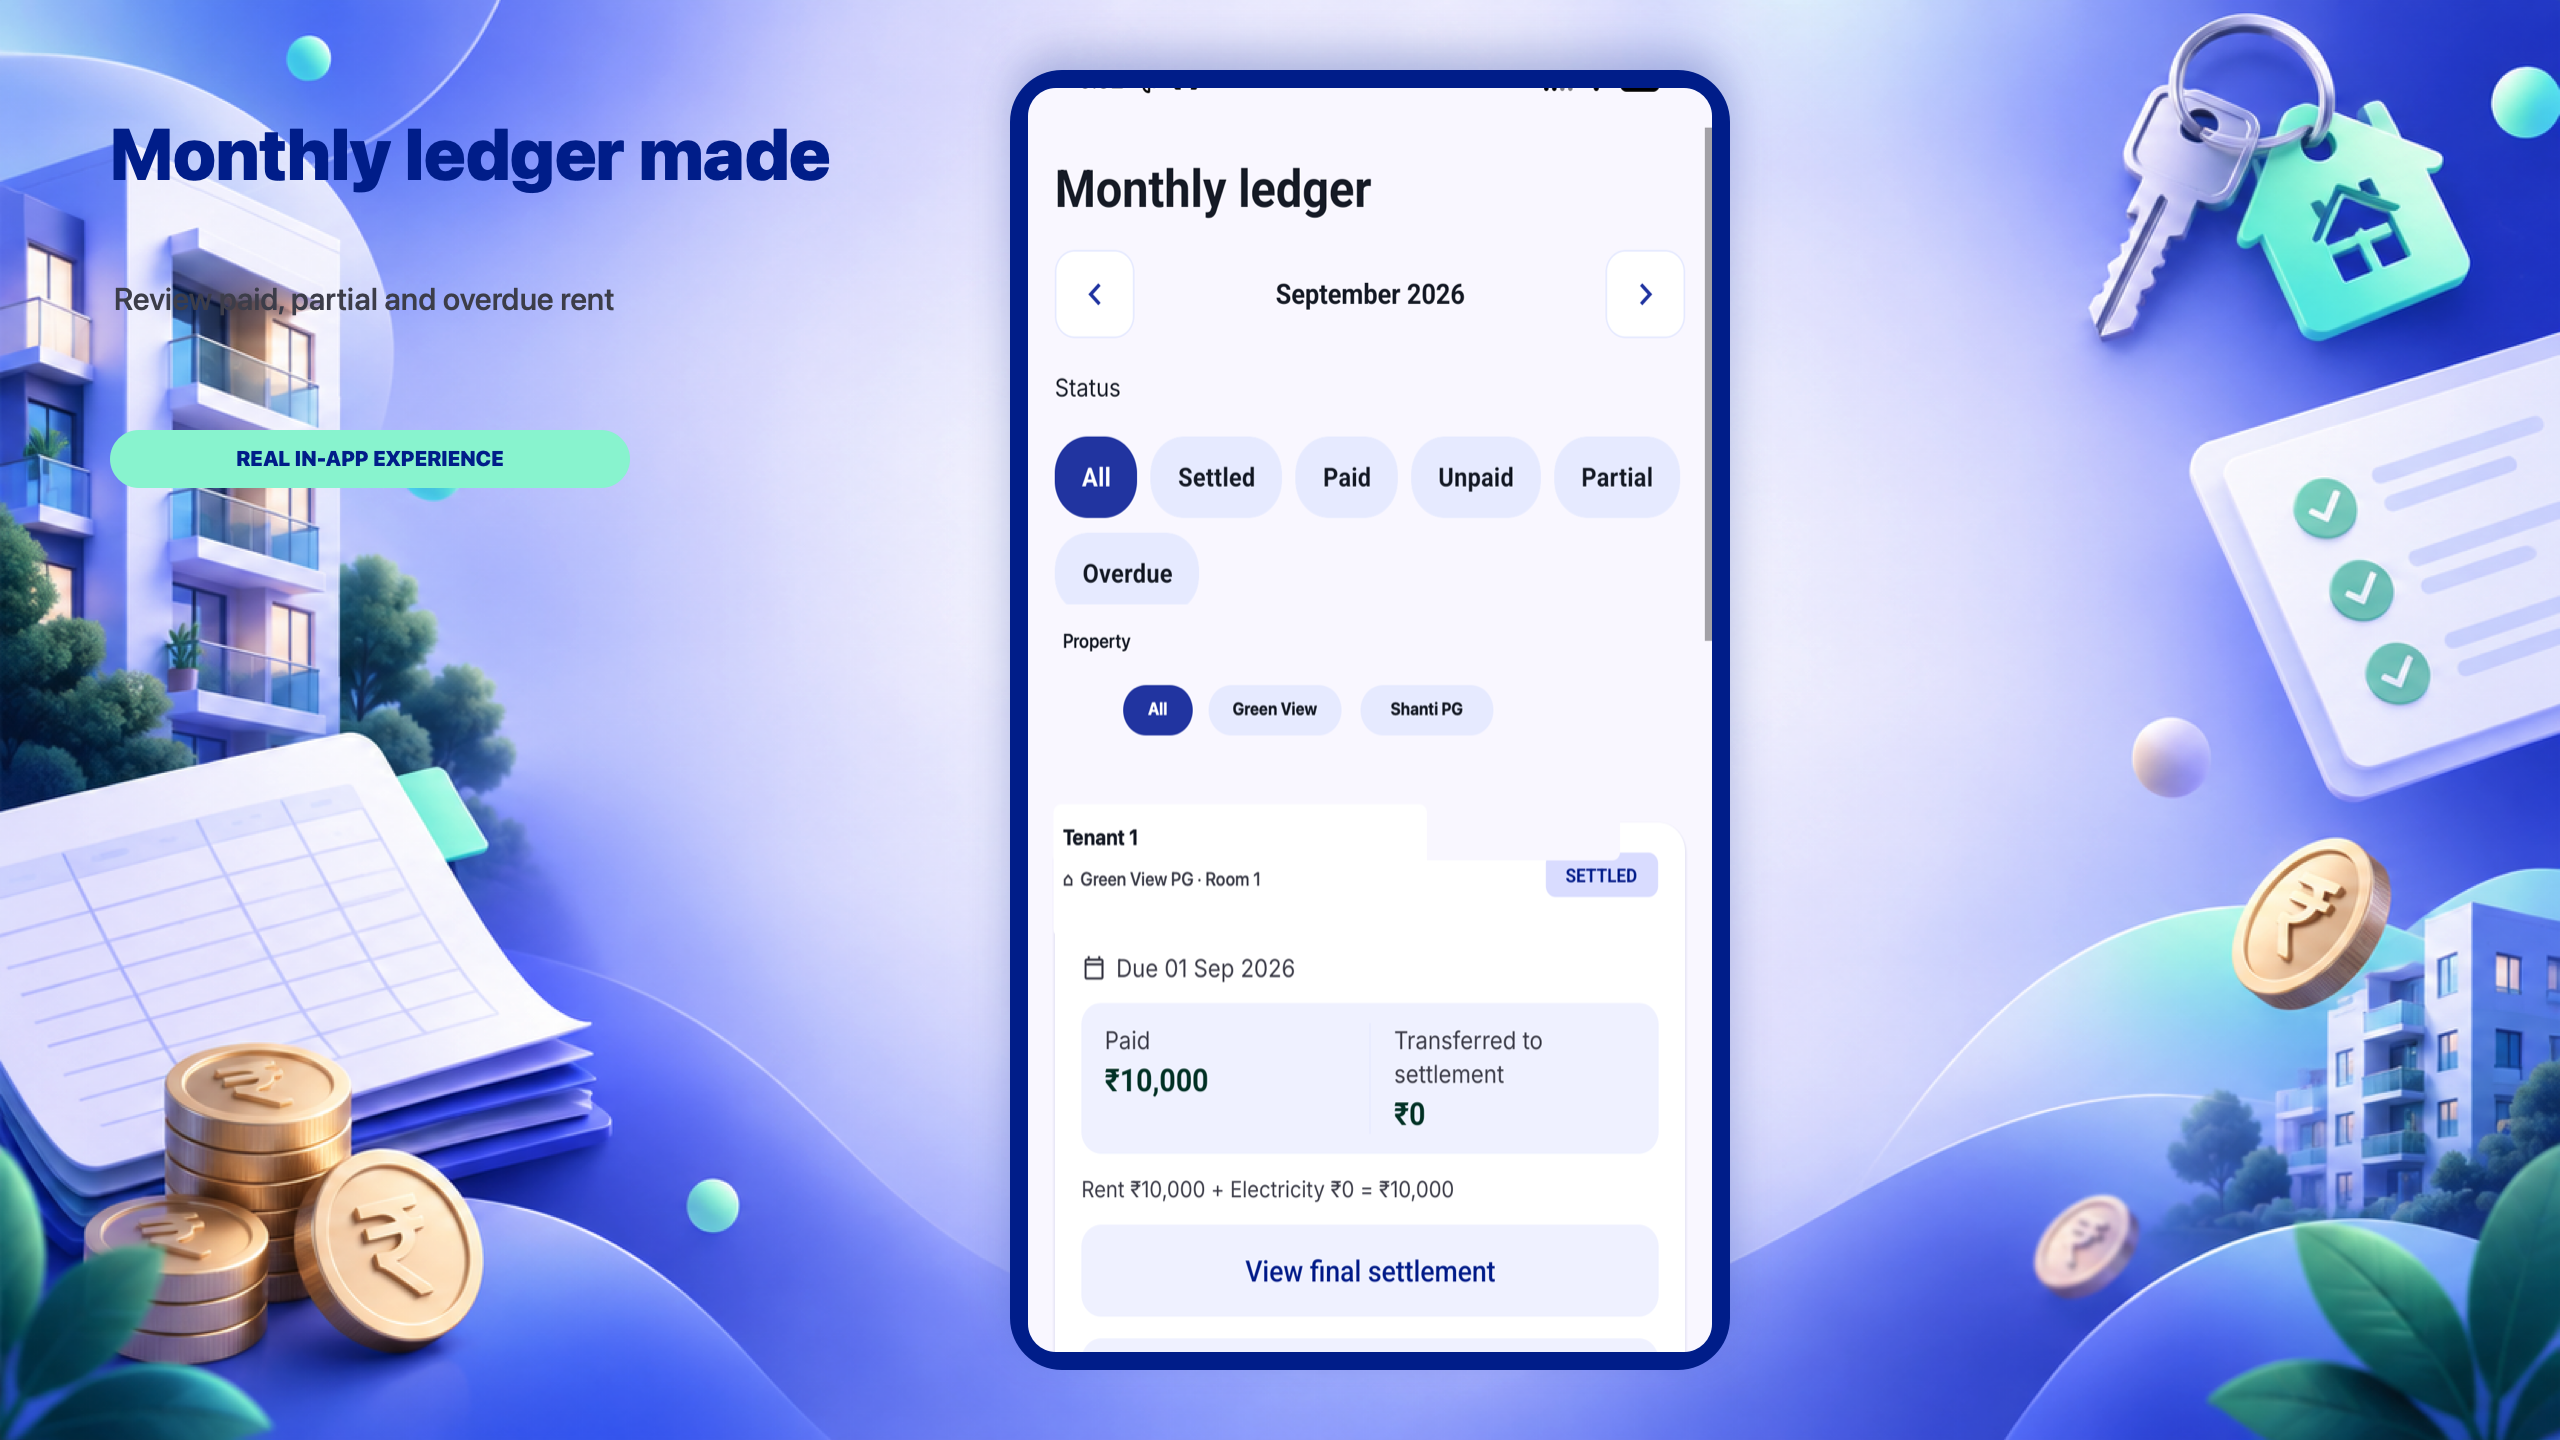
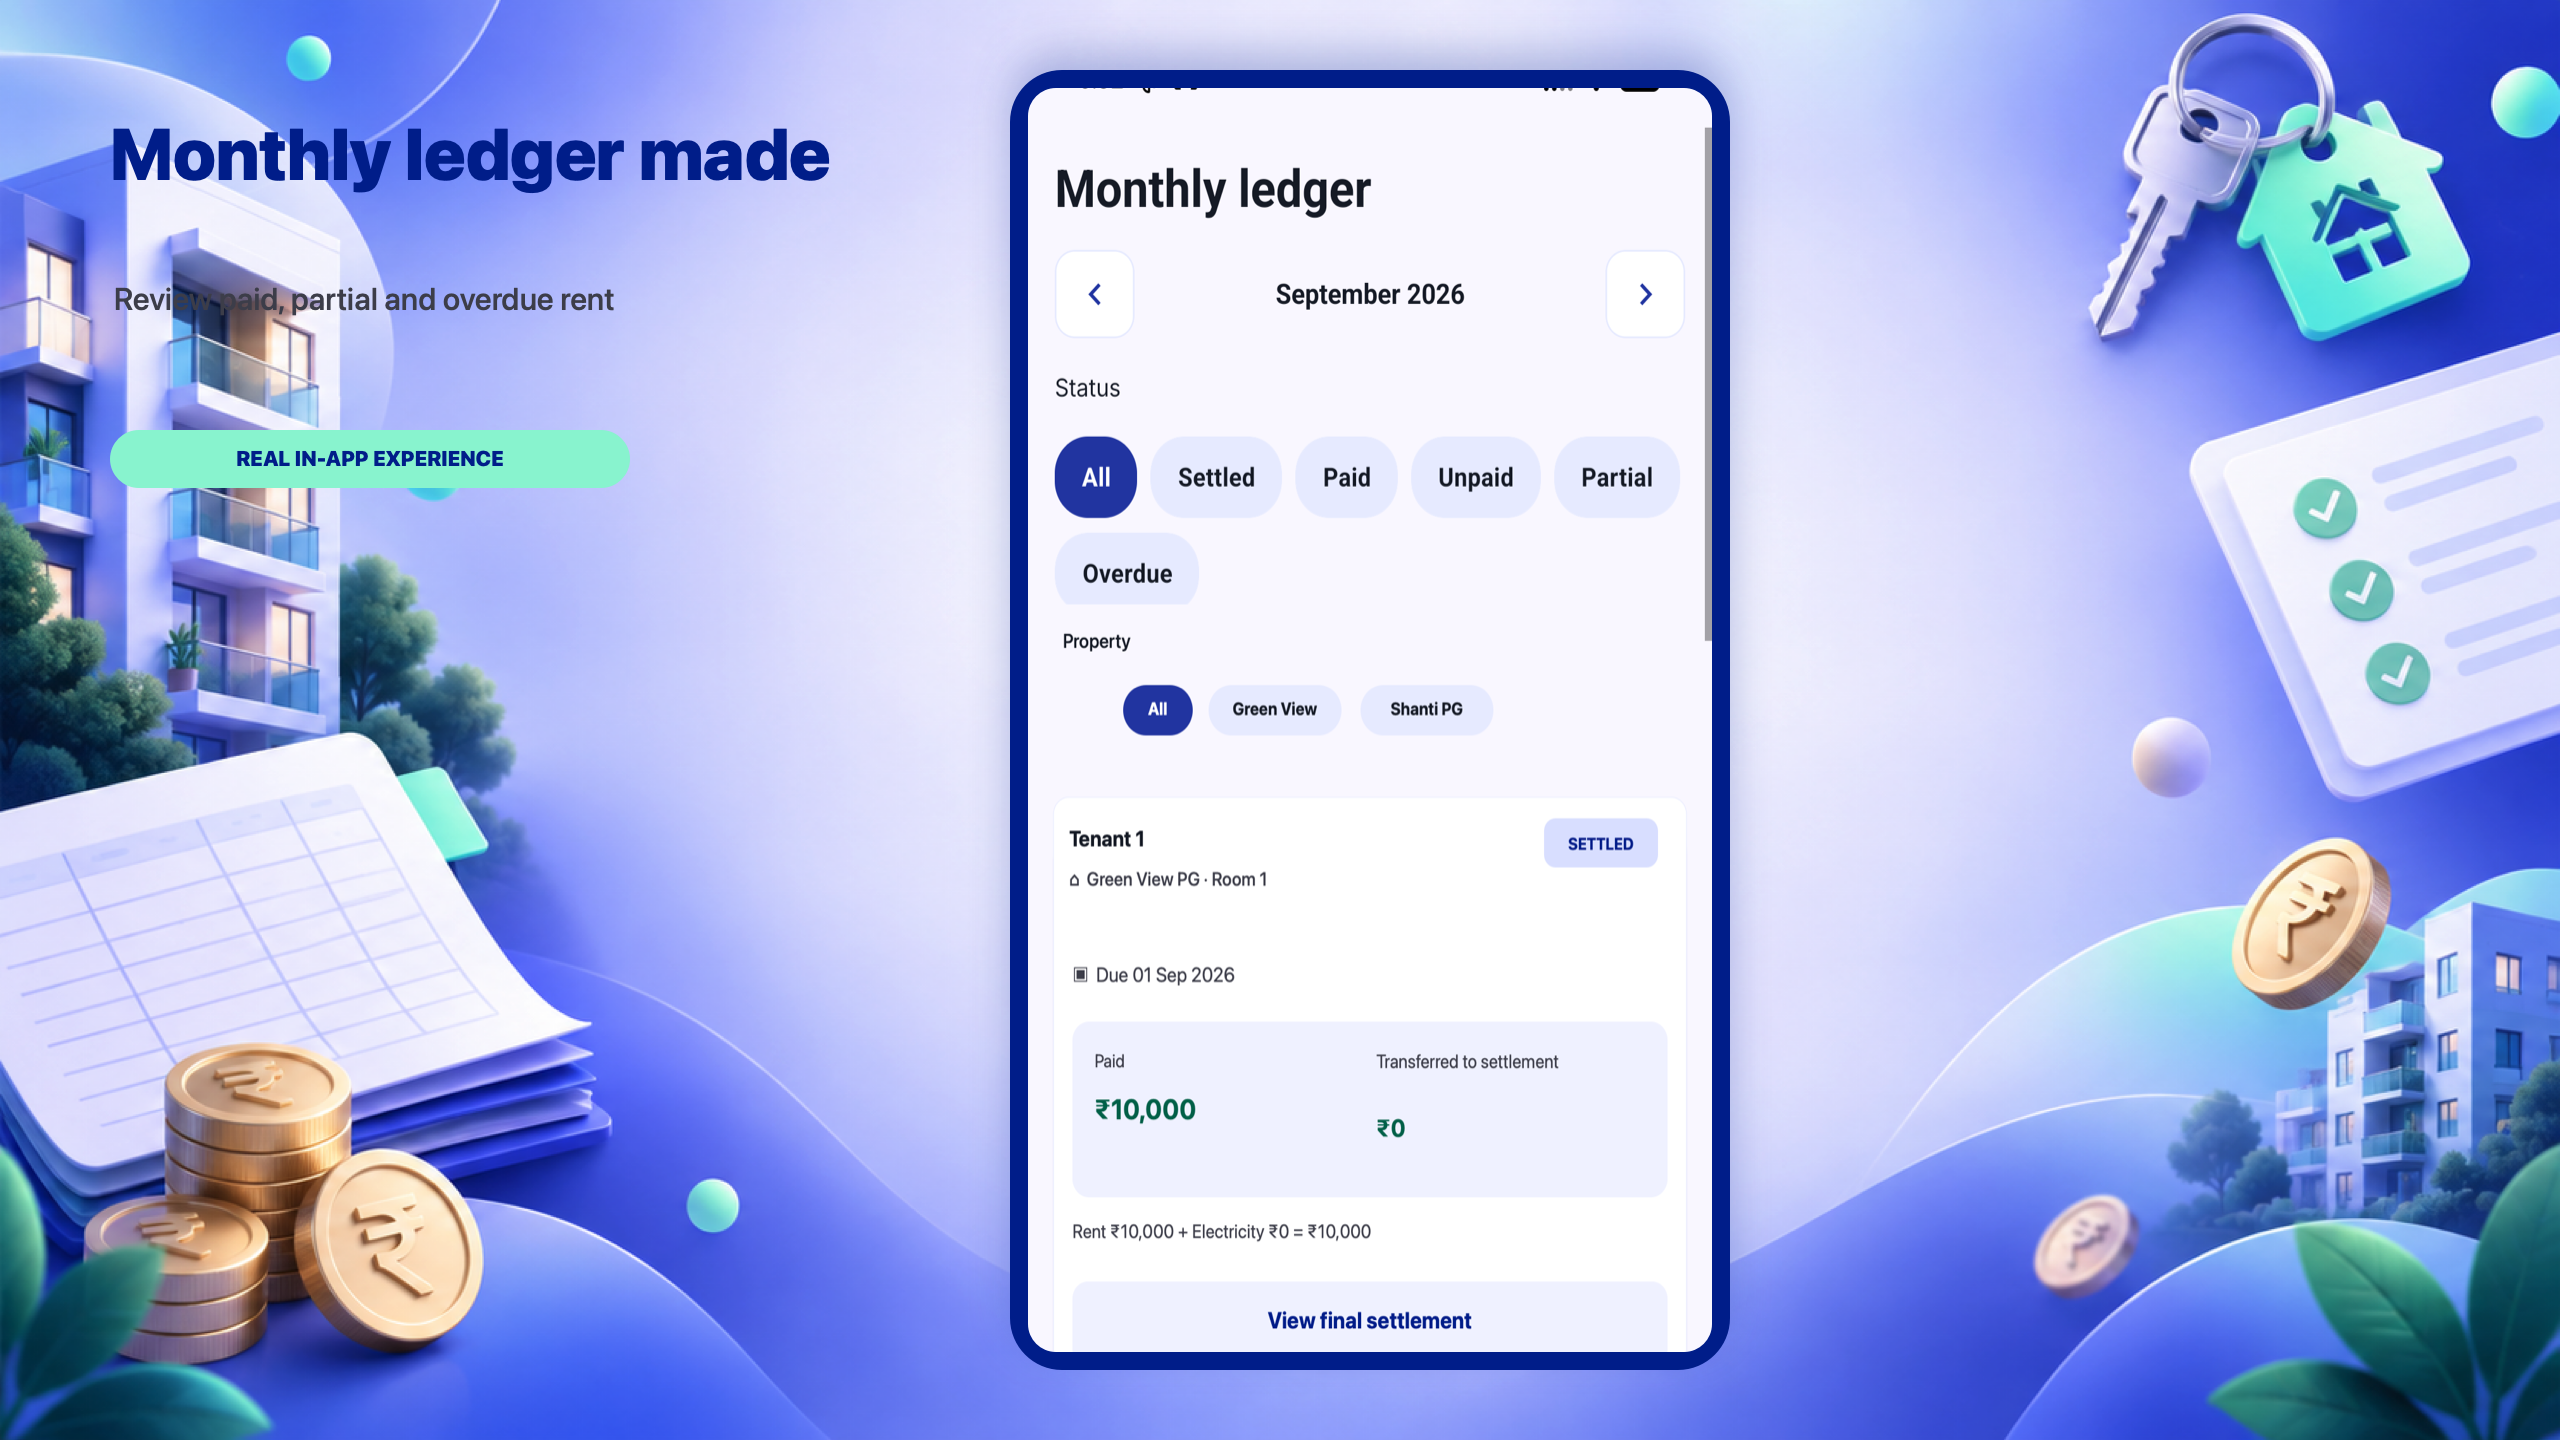
added new img for phone

diff --git a/play-store-assets/multi-device/render_multi_device.swift b/play-store-assets/multi-device/render_multi_device.swift
@@ -72,8 +72,8 @@ func sanitized(_ original: NSImage, index: Int) -> NSImage {
             rounded(NSRect(x: 80, y: 650, width: 520, height: 92), radius: 8, fill: color("233DB6"))
             text("Hello, Landlord 👋", rect: NSRect(x: 92, y: 659, width: 500, height: 70),
                  size: 46, weight: .bold, color: .white)
-            rounded(NSRect(x: 820, y: 565, width: 190, height: 52), radius: 8, fill: color("1635B4"))
-            text("Up to date", rect: NSRect(x: 830, y: 577, width: 170, height: 30),
+            rounded(NSRect(x: 790, y: 540, width: 240, height: 90), radius: 12, fill: color("1635B4"))
+            text("Up to date", rect: NSRect(x: 810, y: 570, width: 200, height: 32),
                  size: 22, weight: .semibold, color: mint, alignment: .center)
 
             rounded(NSRect(x: 30, y: 1080, width: 1020, height: 590), radius: 28, fill: offWhite)
@@ -91,12 +91,17 @@ func sanitized(_ original: NSImage, index: Int) -> NSImage {
             }
         }
         if index == 2 {
-            rounded(NSRect(x: 630, y: 1690, width: 390, height: 250), radius: 22, fill: color("F1F3FF"))
-            text("Contact saved", rect: NSRect(x: 650, y: 1792, width: 350, height: 48),
-                 size: 28, weight: .semibold, color: primary, alignment: .center)
-            rounded(NSRect(x: 245, y: 1620, width: 430, height: 76), radius: 8, fill: .white)
-            text("Green View PG · Room 2", rect: NSRect(x: 260, y: 1638, width: 400, height: 42),
-                 size: 27, weight: .medium, color: muted)
+            rounded(NSRect(x: 40, y: 1580, width: 1000, height: 420), radius: 28, fill: .white, stroke: border)
+            rounded(NSRect(x: 78, y: 1630, width: 112, height: 112), radius: 56, fill: color("E4E8FF"))
+            text("T1", rect: NSRect(x: 78, y: 1662, width: 112, height: 48), size: 38, weight: .bold, color: primary, alignment: .center)
+            text("Tenant 1", rect: NSRect(x: 225, y: 1618, width: 500, height: 52), size: 36, weight: .bold)
+            text("Green View PG · Room 2", rect: NSRect(x: 225, y: 1680, width: 500, height: 44), size: 27, weight: .medium, color: muted)
+            rounded(NSRect(x: 830, y: 1625, width: 150, height: 70), radius: 20, fill: color("D8F9EE"))
+            text("PAID", rect: NSRect(x: 830, y: 1646, width: 150, height: 34), size: 25, weight: .bold, color: color("006B52"), alignment: .center)
+            text("Monthly rent", rect: NSRect(x: 78, y: 1780, width: 300, height: 40), size: 26, color: muted)
+            text("₹25,000 / month", rect: NSRect(x: 78, y: 1834, width: 420, height: 54), size: 37, weight: .bold)
+            rounded(NSRect(x: 650, y: 1780, width: 330, height: 92), radius: 24, fill: color("F1F3FF"))
+            text("Contact saved", rect: NSRect(x: 650, y: 1807, width: 330, height: 42), size: 27, weight: .semibold, color: primary, alignment: .center)
         }
         if index == 3 {
             rounded(NSRect(x: 35, y: 815, width: 900, height: 365), radius: 12, fill: offWhite)
@@ -110,27 +115,48 @@ func sanitized(_ original: NSImage, index: Int) -> NSImage {
                 text(filter.0, rect: NSRect(x: filter.3, y: 949, width: filter.0 == "All" ? 110 : 210, height: 36),
                      size: 25, weight: .bold, color: filter.2, alignment: .center)
             }
-            rounded(NSRect(x: 40, y: 1100, width: 590, height: 190), radius: 12, fill: .white)
-            text("Tenant 1", rect: NSRect(x: 55, y: 1128, width: 540, height: 44),
-                 size: 31, weight: .bold, color: ink)
-            text("⌂  Green View PG · Room 1", rect: NSRect(x: 55, y: 1190, width: 540, height: 44),
-                 size: 27, weight: .medium, color: muted)
+            rounded(NSRect(x: 40, y: 1090, width: 1000, height: 880), radius: 24, fill: .white, stroke: border)
+            text("Tenant 1", rect: NSRect(x: 65, y: 1130, width: 570, height: 46), size: 31, weight: .bold, color: ink)
+            text("⌂  Green View PG · Room 1", rect: NSRect(x: 65, y: 1190, width: 590, height: 44), size: 27, weight: .medium, color: muted)
+            rounded(NSRect(x: 815, y: 1120, width: 180, height: 70), radius: 18, fill: color("DDE2FF"))
+            text("SETTLED", rect: NSRect(x: 815, y: 1142, width: 180, height: 34), size: 24, weight: .bold, color: primaryDark, alignment: .center)
+            text("▣  Due 01 Sep 2026", rect: NSRect(x: 70, y: 1325, width: 600, height: 50), size: 29, color: muted)
+            rounded(NSRect(x: 70, y: 1410, width: 940, height: 250), radius: 26, fill: color("F1F3FF"))
+            text("Paid", rect: NSRect(x: 105, y: 1450, width: 350, height: 38), size: 26, color: muted)
+            text("₹10,000", rect: NSRect(x: 105, y: 1510, width: 350, height: 58), size: 40, weight: .bold, color: color("006B52"))
+            text("Transferred to settlement", rect: NSRect(x: 550, y: 1450, width: 400, height: 72), size: 27, color: muted)
+            text("₹0", rect: NSRect(x: 550, y: 1540, width: 350, height: 48), size: 35, weight: .bold, color: color("006B52"))
+            text("Rent ₹10,000 + Electricity ₹0 = ₹10,000", rect: NSRect(x: 70, y: 1692, width: 940, height: 46), size: 27, color: muted)
+            rounded(NSRect(x: 70, y: 1780, width: 940, height: 120), radius: 24, fill: color("F1F3FF"))
+            text("View final settlement", rect: NSRect(x: 70, y: 1815, width: 940, height: 52), size: 33, weight: .bold, color: primaryDark, alignment: .center)
         }
         if index == 4 {
-            rounded(NSRect(x: 30, y: 445, width: 1020, height: 1000), radius: 20, fill: offWhite)
-            text("Your properties", rect: NSRect(x: 42, y: 465, width: 500, height: 44),
+            rounded(NSRect(x: 30, y: 365, width: 1020, height: 1650), radius: 20, fill: offWhite)
+            rounded(NSRect(x: 42, y: 390, width: 996, height: 125), radius: 24, fill: primary)
+            text("＋  Add property", rect: NSRect(x: 42, y: 426, width: 996, height: 50), size: 34, weight: .bold, color: .white, alignment: .center)
+            text("Your properties", rect: NSRect(x: 42, y: 560, width: 500, height: 44),
                  size: 29, weight: .bold, color: ink)
             let properties = [("Green View Apartments", "Sector 21 · 4 occupied · 5 units"),
                               ("Shanti PG", "Central Road · 5 occupied · 6 units"),
                               ("Market Road Rooms", "Main Market · 3 occupied · 4 units")]
             for i in 0..<properties.count {
-                let y = 530 + CGFloat(i) * 205
+                let y = 625 + CGFloat(i) * 220
                 rounded(NSRect(x: 42, y: y, width: 996, height: 175), radius: 22, fill: .white, stroke: border)
                 rounded(NSRect(x: 65, y: y + 35, width: 78, height: 78), radius: 16, fill: color("F1F3FF"))
                 text("⌂", rect: NSRect(x: 65, y: y + 48, width: 78, height: 48), size: 38, weight: .bold, color: primary, alignment: .center)
                 text(properties[i].0, rect: NSRect(x: 170, y: y + 28, width: 800, height: 40), size: 29, weight: .bold)
                 text(properties[i].1, rect: NSRect(x: 170, y: y + 82, width: 800, height: 38), size: 24, color: muted)
             }
+            text("Occupancy overview", rect: NSRect(x: 42, y: 1325, width: 500, height: 44), size: 29, weight: .bold, color: ink)
+            rounded(NSRect(x: 42, y: 1390, width: 996, height: 250), radius: 24, fill: .white, stroke: border)
+            let metrics = [("15", "TOTAL UNITS"), ("12", "OCCUPIED"), ("3", "AVAILABLE")]
+            for i in 0..<metrics.count {
+                let x = 70 + CGFloat(i) * 318
+                text(metrics[i].0, rect: NSRect(x: x, y: 1440, width: 270, height: 60), size: 44, weight: .heavy, color: i == 2 ? color("006B52") : primaryDark, alignment: .center)
+                text(metrics[i].1, rect: NSRect(x: x, y: 1520, width: 270, height: 38), size: 21, weight: .bold, color: muted, alignment: .center)
+            }
+            rounded(NSRect(x: 42, y: 1685, width: 996, height: 105), radius: 22, fill: color("EEF1FF"))
+            text("Tap a property to manage units and occupancy", rect: NSRect(x: 72, y: 1717, width: 936, height: 44), size: 27, weight: .medium, color: primaryDark, alignment: .center)
         }
     }
     return result
@@ -172,7 +198,7 @@ let sourceScreens: [NSImage] = files.enumerated().map { index, name in
     return sanitized(image, index: index + 1)
 }
 
-for folder in ["phone", "phone-v2", "7-inch-tablet", "10-inch-tablet", "chromebook"] {
+for folder in ["phone", "phone-v2", "phone-v3", "7-inch-tablet", "10-inch-tablet", "chromebook"] {
     try FileManager.default.createDirectory(at: output.appendingPathComponent(folder), withIntermediateDirectories: true)
 }
 
@@ -207,6 +233,40 @@ for index in 0..<sourceScreens.count {
         }
     }
     try save(phoneV2, to: output.appendingPathComponent("phone-v2/\(order)-\(slugs[index])-1080x1920.png"))
+
+    // Phone v3 prioritizes legibility: a short benefit-led heading and an
+    // almost full-width, authentic in-app view without a decorative device bezel.
+    let v3Headings = ["Rent collection at a glance", "Tenant records, organized", "Monthly rent ledger", "Properties & units together"]
+    let v3Subheads = ["See collected, pending and overdue rent instantly", "Search tenants and check rent status quickly", "Filter paid, partial and overdue rent", "Keep occupancy and property records organized"]
+    let v3Steps = ["1  •  OVERVIEW", "2  •  TENANTS", "3  •  LEDGER", "4  •  PROPERTIES"]
+    let phoneV3 = imageCanvas(width: 1080, height: 1920) {
+        drawFill(phoneV2Background, rect: NSRect(x: 0, y: 0, width: 1080, height: 1920))
+
+        rounded(NSRect(x: 48, y: 38, width: 218, height: 42), radius: 21, fill: primary)
+        text("KIRAYABAHI", rect: NSRect(x: 48, y: 48, width: 218, height: 25),
+             size: 17, weight: .heavy, color: .white, alignment: .center)
+        rounded(NSRect(x: 792, y: 38, width: 240, height: 42), radius: 21, fill: color("EEF1FF"), stroke: border)
+        text(v3Steps[index], rect: NSRect(x: 792, y: 49, width: 240, height: 24),
+             size: 16, weight: .bold, color: primary, alignment: .center)
+
+        text(v3Headings[index], rect: NSRect(x: 48, y: 102, width: 984, height: 68),
+             size: 50, weight: .heavy, color: primaryDark)
+        text(v3Subheads[index], rect: NSRect(x: 52, y: 183, width: 976, height: 38),
+             size: 25, weight: .medium, color: muted)
+
+        let card = NSRect(x: 36, y: 258, width: 1008, height: 1626)
+        NSGraphicsContext.saveGraphicsState()
+        let cardShadow = NSShadow()
+        cardShadow.shadowColor = color("001F94", 0.16)
+        cardShadow.shadowBlurRadius = 28
+        cardShadow.shadowOffset = NSSize(width: 0, height: 12)
+        cardShadow.set()
+        rounded(card, radius: 34, fill: .white)
+        NSGraphicsContext.restoreGraphicsState()
+        rounded(card, radius: 34, fill: .clear, stroke: color("DCE3FF"), width: 5)
+        drawCroppedScreen(screen, in: card.insetBy(dx: 8, dy: 8), cropTop: 135, cropBottom: 485)
+    }
+    try save(phoneV3, to: output.appendingPathComponent("phone-v3/\(order)-\(slugs[index])-1080x1920.png"))
 
     let seven = imageCanvas(width: 1440, height: 2560) {
         drawFill(portraitBackground, rect: NSRect(x: 0, y: 0, width: 1440, height: 2560))
@@ -253,4 +313,4 @@ for index in 0..<sourceScreens.count {
     try save(chromebook, to: output.appendingPathComponent("chromebook/\(order)-\(slugs[index])-2560x1440.png"))
 }
 
-print("Rendered 16 multi-device Google Play screenshots")
+print("Rendered multi-device Google Play screenshots, including phone v3")
